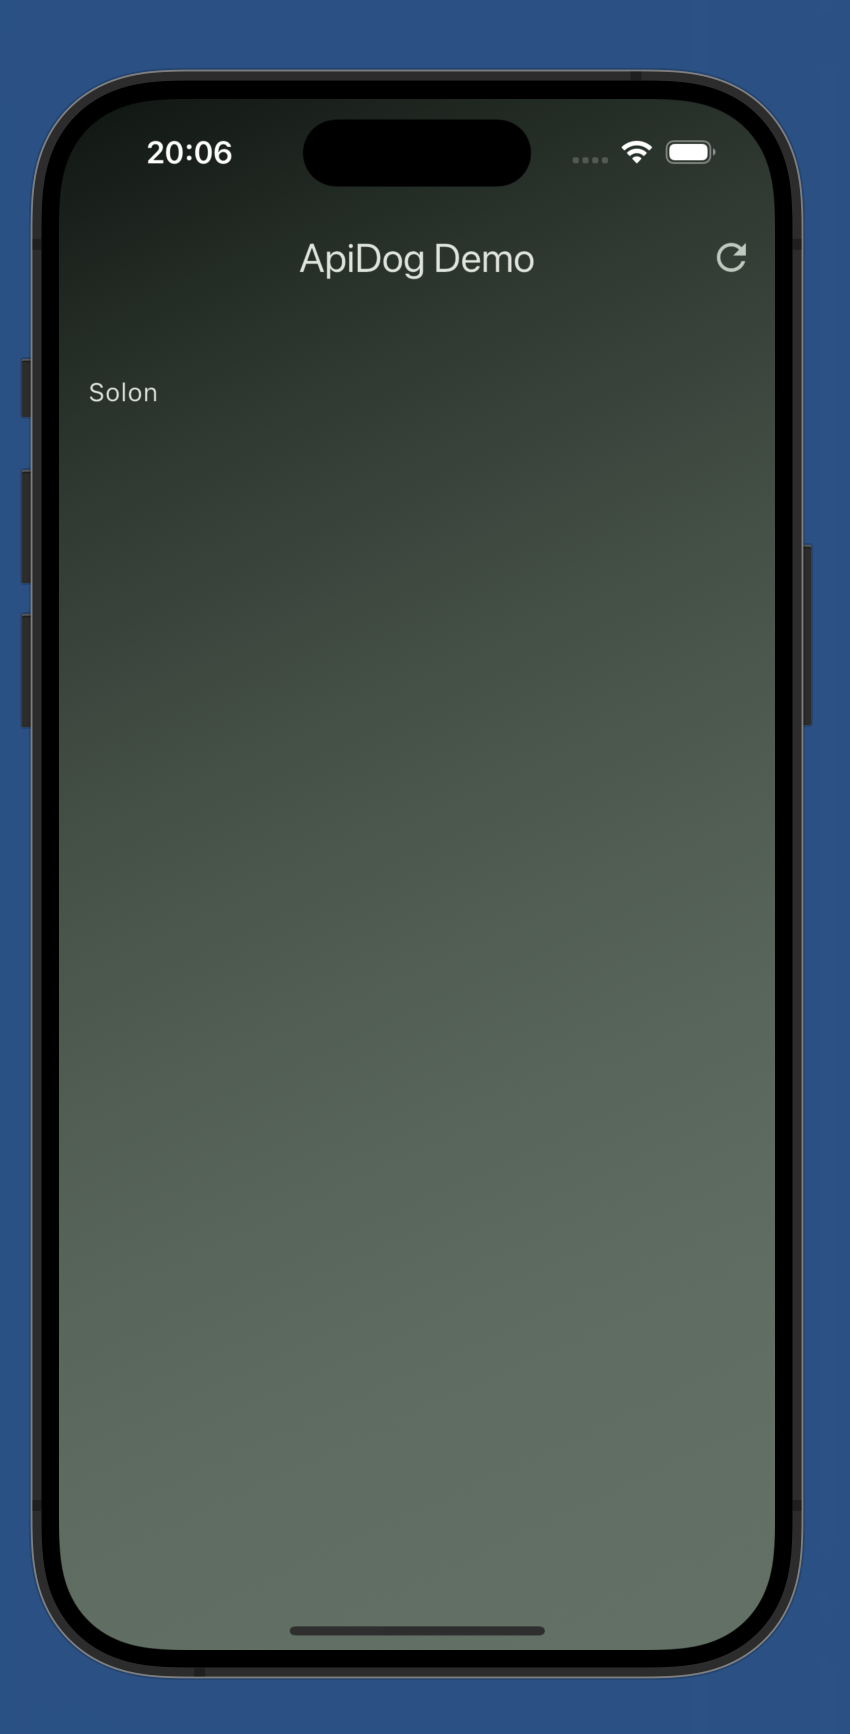
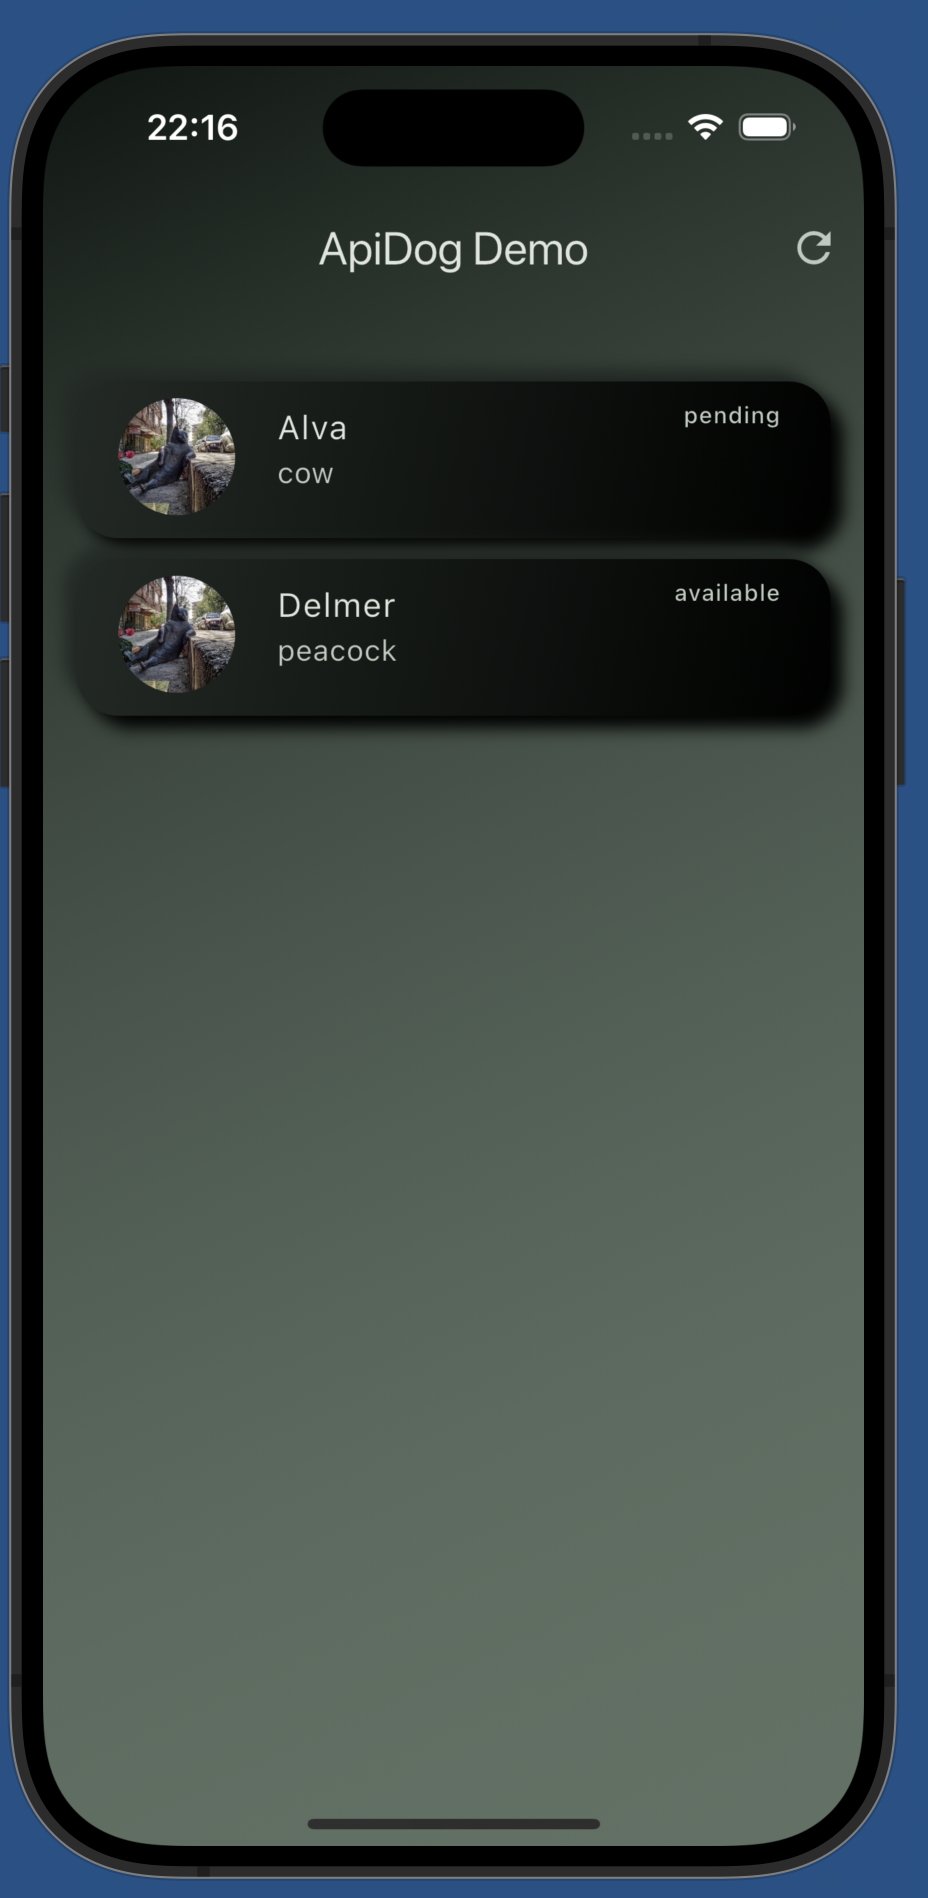
Added pet detail, updated README

diff --git a/lib/presentation/screens/pet_detail.dart b/lib/presentation/screens/pet_detail.dart
@@ -1,0 +1,86 @@
+import 'package:apidog/domain/entities/pet.dart';
+import 'package:apidog/presentation/widgets/layout.dart';
+import 'package:flutter/material.dart';
+
+class PetDetail extends StatelessWidget {
+  const PetDetail({super.key, required this.pet});
+
+  final Pet pet;
+
+  @override
+  Widget build(BuildContext context) {
+    return Layout(
+      appBar: AppBar(
+        title: Text(pet.name),
+        elevation: 0,
+        backgroundColor: Colors.transparent,
+      ),
+      body: Column(
+        crossAxisAlignment: CrossAxisAlignment.start, // Align text to the left
+        children: [
+          // Image of the Pet
+          Padding(
+            padding: const EdgeInsets.all(16.0),
+            child: ClipRRect(
+              borderRadius: BorderRadius.circular(12),
+              child: Image.network(
+                pet.photoUrls[0],
+                width: double.infinity,
+                height: 250,
+                fit: BoxFit.cover,
+              ),
+            ),
+          ),
+
+          // Pet's Name
+          Padding(
+            padding: const EdgeInsets.symmetric(horizontal: 16.0),
+            child: Text(
+              pet.name,
+              style: Theme.of(context)
+                  .textTheme
+                  .headlineMedium
+                  ?.copyWith(fontWeight: FontWeight.bold),
+            ),
+          ),
+
+          // Pet's Status
+          Padding(
+            padding:
+                const EdgeInsets.symmetric(horizontal: 16.0, vertical: 4.0),
+            child: Text(
+              'Status: ${pet.status.name}',
+              style: Theme.of(context).textTheme.bodyLarge,
+            ),
+          ),
+
+          // Pet's Tags
+          if (pet.tags.isNotEmpty)
+            Padding(
+              padding:
+                  const EdgeInsets.symmetric(horizontal: 16.0, vertical: 8.0),
+              child: Wrap(
+                spacing: 8.0, // Space between tags
+                runSpacing: 4.0, // Space between lines of tags
+                children: pet.tags.map((tag) {
+                  return Chip(
+                    label: Text(tag.name ?? ''),
+                    backgroundColor:
+                        Theme.of(context).colorScheme.primary.withValues(alpha: 0.1),
+                  );
+                }).toList(),
+              ),
+            ),
+          Padding(
+            padding:
+                const EdgeInsets.symmetric(horizontal: 16.0, vertical: 12.0),
+            child: Text(
+              pet.category.name!,
+              style: Theme.of(context).textTheme.bodyLarge,
+            ),
+          ),
+        ],
+      ),
+    );
+  }
+}

diff --git a/lib/presentation/screens/pet_screen.dart b/lib/presentation/screens/pet_screen.dart
@@ -1,0 +1,57 @@
+import 'package:apidog/presentation/providers/api_provider.dart';
+import 'package:apidog/presentation/widgets/layout.dart';
+import 'package:apidog/presentation/widgets/pet_list.dart';
+import 'package:flutter/material.dart';
+import 'package:provider/provider.dart';
+
+class PetScreen extends StatefulWidget {
+  const PetScreen({super.key});
+
+  @override
+  State<PetScreen> createState() => _ApiScreenState();
+}
+
+class _ApiScreenState extends State<PetScreen> {
+  @override
+  void initState() {
+    super.initState();
+    WidgetsBinding.instance.addPostFrameCallback((_) {
+      final provider = Provider.of<ApiProvider>(context, listen: false);
+      provider.fetchPetList();
+    });
+  }
+
+  @override
+  Widget build(BuildContext context) {
+    final provider = Provider.of<ApiProvider>(context);
+
+    return Layout(
+      appBar: AppBar(
+        title: const Text('ApiDog Demo'),
+        elevation: 0,
+        backgroundColor: Colors.transparent,
+        actions: [
+          IconButton(
+            onPressed: provider.fetchPetList,
+            icon: const Icon(Icons.refresh),
+          ),
+        ],
+      ),
+      body: SafeArea(
+        child: Padding(
+          padding: const EdgeInsets.all(16.0),
+          child: Column(
+            children: [
+              const SizedBox(height: 20),
+              provider.isLoading
+                  ? const CircularProgressIndicator()
+                  : provider.petList.isNotEmpty
+                      ? const PetList()
+                      : const Text('No data fetched yet'),
+            ],
+          ),
+        ),
+      ),
+    );
+  }
+}

diff --git a/lib/presentation/widgets/pet_item.dart b/lib/presentation/widgets/pet_item.dart
@@ -1,0 +1,40 @@
+import 'dart:math';
+
+import 'package:apidog/domain/entities/pet.dart';
+import 'package:apidog/presentation/screens/pet_detail.dart';
+import 'package:clay_containers/constants.dart';
+import 'package:clay_containers/widgets/clay_container.dart';
+import 'package:flutter/material.dart';
+
+class PetItem extends StatelessWidget {
+  const PetItem({super.key, required this.pet});
+
+  final Pet pet;
+
+  @override
+  Widget build(BuildContext context) {
+    final randomIndex = Random().nextInt(pet.photoUrls.length); 
+    return ClayContainer(
+      color: Theme.of(context).colorScheme.surface,
+      borderRadius: 20,
+      height: 75,
+      curveType: CurveType.convex,
+      child: ListTile(
+        title: Text(pet.name),
+        subtitle: Text(pet.tags[0].name ?? ''),
+        leading: CircleAvatar(
+          radius: 32,
+          backgroundImage: NetworkImage(pet.photoUrls[randomIndex]),
+        ),
+        trailing: Text(pet.status.name.toLowerCase()),
+        isThreeLine: true,
+        onTap: () {
+          Navigator.push(
+            context,
+            MaterialPageRoute(builder: (context) => PetDetail(pet: pet)),
+          );
+        },
+      ),
+    );
+  }
+}

diff --git a/lib/presentation/widgets/layout.dart b/lib/presentation/widgets/layout.dart
@@ -1,0 +1,31 @@
+import 'package:flutter/material.dart';
+
+class Layout extends StatelessWidget {
+  const Layout({super.key, required this.appBar, required this.body});
+
+  final AppBar appBar;
+  final Widget body;
+
+  @override
+  Widget build(BuildContext context) {
+    return Scaffold(
+      extendBodyBehindAppBar: true,
+      appBar: appBar,
+      body: Container(
+        width: double.infinity,
+        decoration: BoxDecoration(
+          gradient: LinearGradient(
+              begin: Alignment.topLeft,
+              end: Alignment.bottomRight,
+              colors: [
+                Theme.of(context).colorScheme.surface,
+                Theme.of(context).colorScheme.secondary.withValues(alpha: 0.5),
+              ]),
+        ),
+        child: SafeArea(
+          child: body,
+        ),
+      ),
+    );
+  }
+}

diff --git a/lib/main.dart b/lib/main.dart
@@ -3,7 +3,7 @@ import 'package:apidog/data/repositories/api_repository_impl.dart';
 import 'package:apidog/domain/entities/pet.dart';
 import 'package:apidog/domain/usecases/fetch_api_data.dart';
 import 'package:apidog/presentation/providers/api_provider.dart';
-import 'package:apidog/presentation/screens/api_screen.dart';
+import 'package:apidog/presentation/screens/pet_screen.dart';
 import 'package:flutter/material.dart';
 import 'package:flutter_dotenv/flutter_dotenv.dart';
 import 'package:provider/provider.dart';
@@ -43,7 +43,7 @@ class MyApp extends StatelessWidget {
         debugShowCheckedModeBanner: false,
         title: 'ApiDog Demo',
         theme: theme,
-        home: ApiScreen(),
+        home: const PetScreen(),
       ),
     );
   }

diff --git a/lib/presentation/widgets/pet_list.dart b/lib/presentation/widgets/pet_list.dart
@@ -1,0 +1,22 @@
+import 'package:apidog/presentation/providers/api_provider.dart';
+import 'package:apidog/presentation/widgets/pet_item.dart';
+import 'package:flutter/material.dart';
+import 'package:provider/provider.dart';
+
+class PetList extends StatelessWidget {
+  const PetList({super.key});
+
+  @override
+  Widget build(BuildContext context) {
+    final provider = Provider.of<ApiProvider>(context);
+    return Expanded(
+      child: ListView.separated(
+        itemCount: provider.petList.length,
+        itemBuilder: (context, index) {
+          return PetItem(pet: provider.petList[index]);
+        },
+        separatorBuilder: (context, index) => const SizedBox(height: 10),
+      ),
+    );
+  }
+}

diff --git a/README.md b/README.md
@@ -106,9 +106,9 @@ You can easily extend this project by adding more models and endpoints:
 
 ## 📷 Screenshots
 
-| Home Screen | Loading State | Response |
-|-------------|----------------|----------|
-| ![home](docs/home.png) | ![loading](docs/loading.png) | ![result](docs/result.png) |
+| Home Screen | Detail |
+|-------------|----------------|
+| ![home](docs/home.png) | ![detail](docs/detail.png) |
 
 ---
 
@@ -129,4 +129,4 @@ Have an idea or a bug fix? Feel free to open a pull request! ❤
 
 ## 📄 License
 
-MIT License © 2025 Gionata Stante / MemmCode
+MIT License © 2025 Gionata Stante / Open Reply
